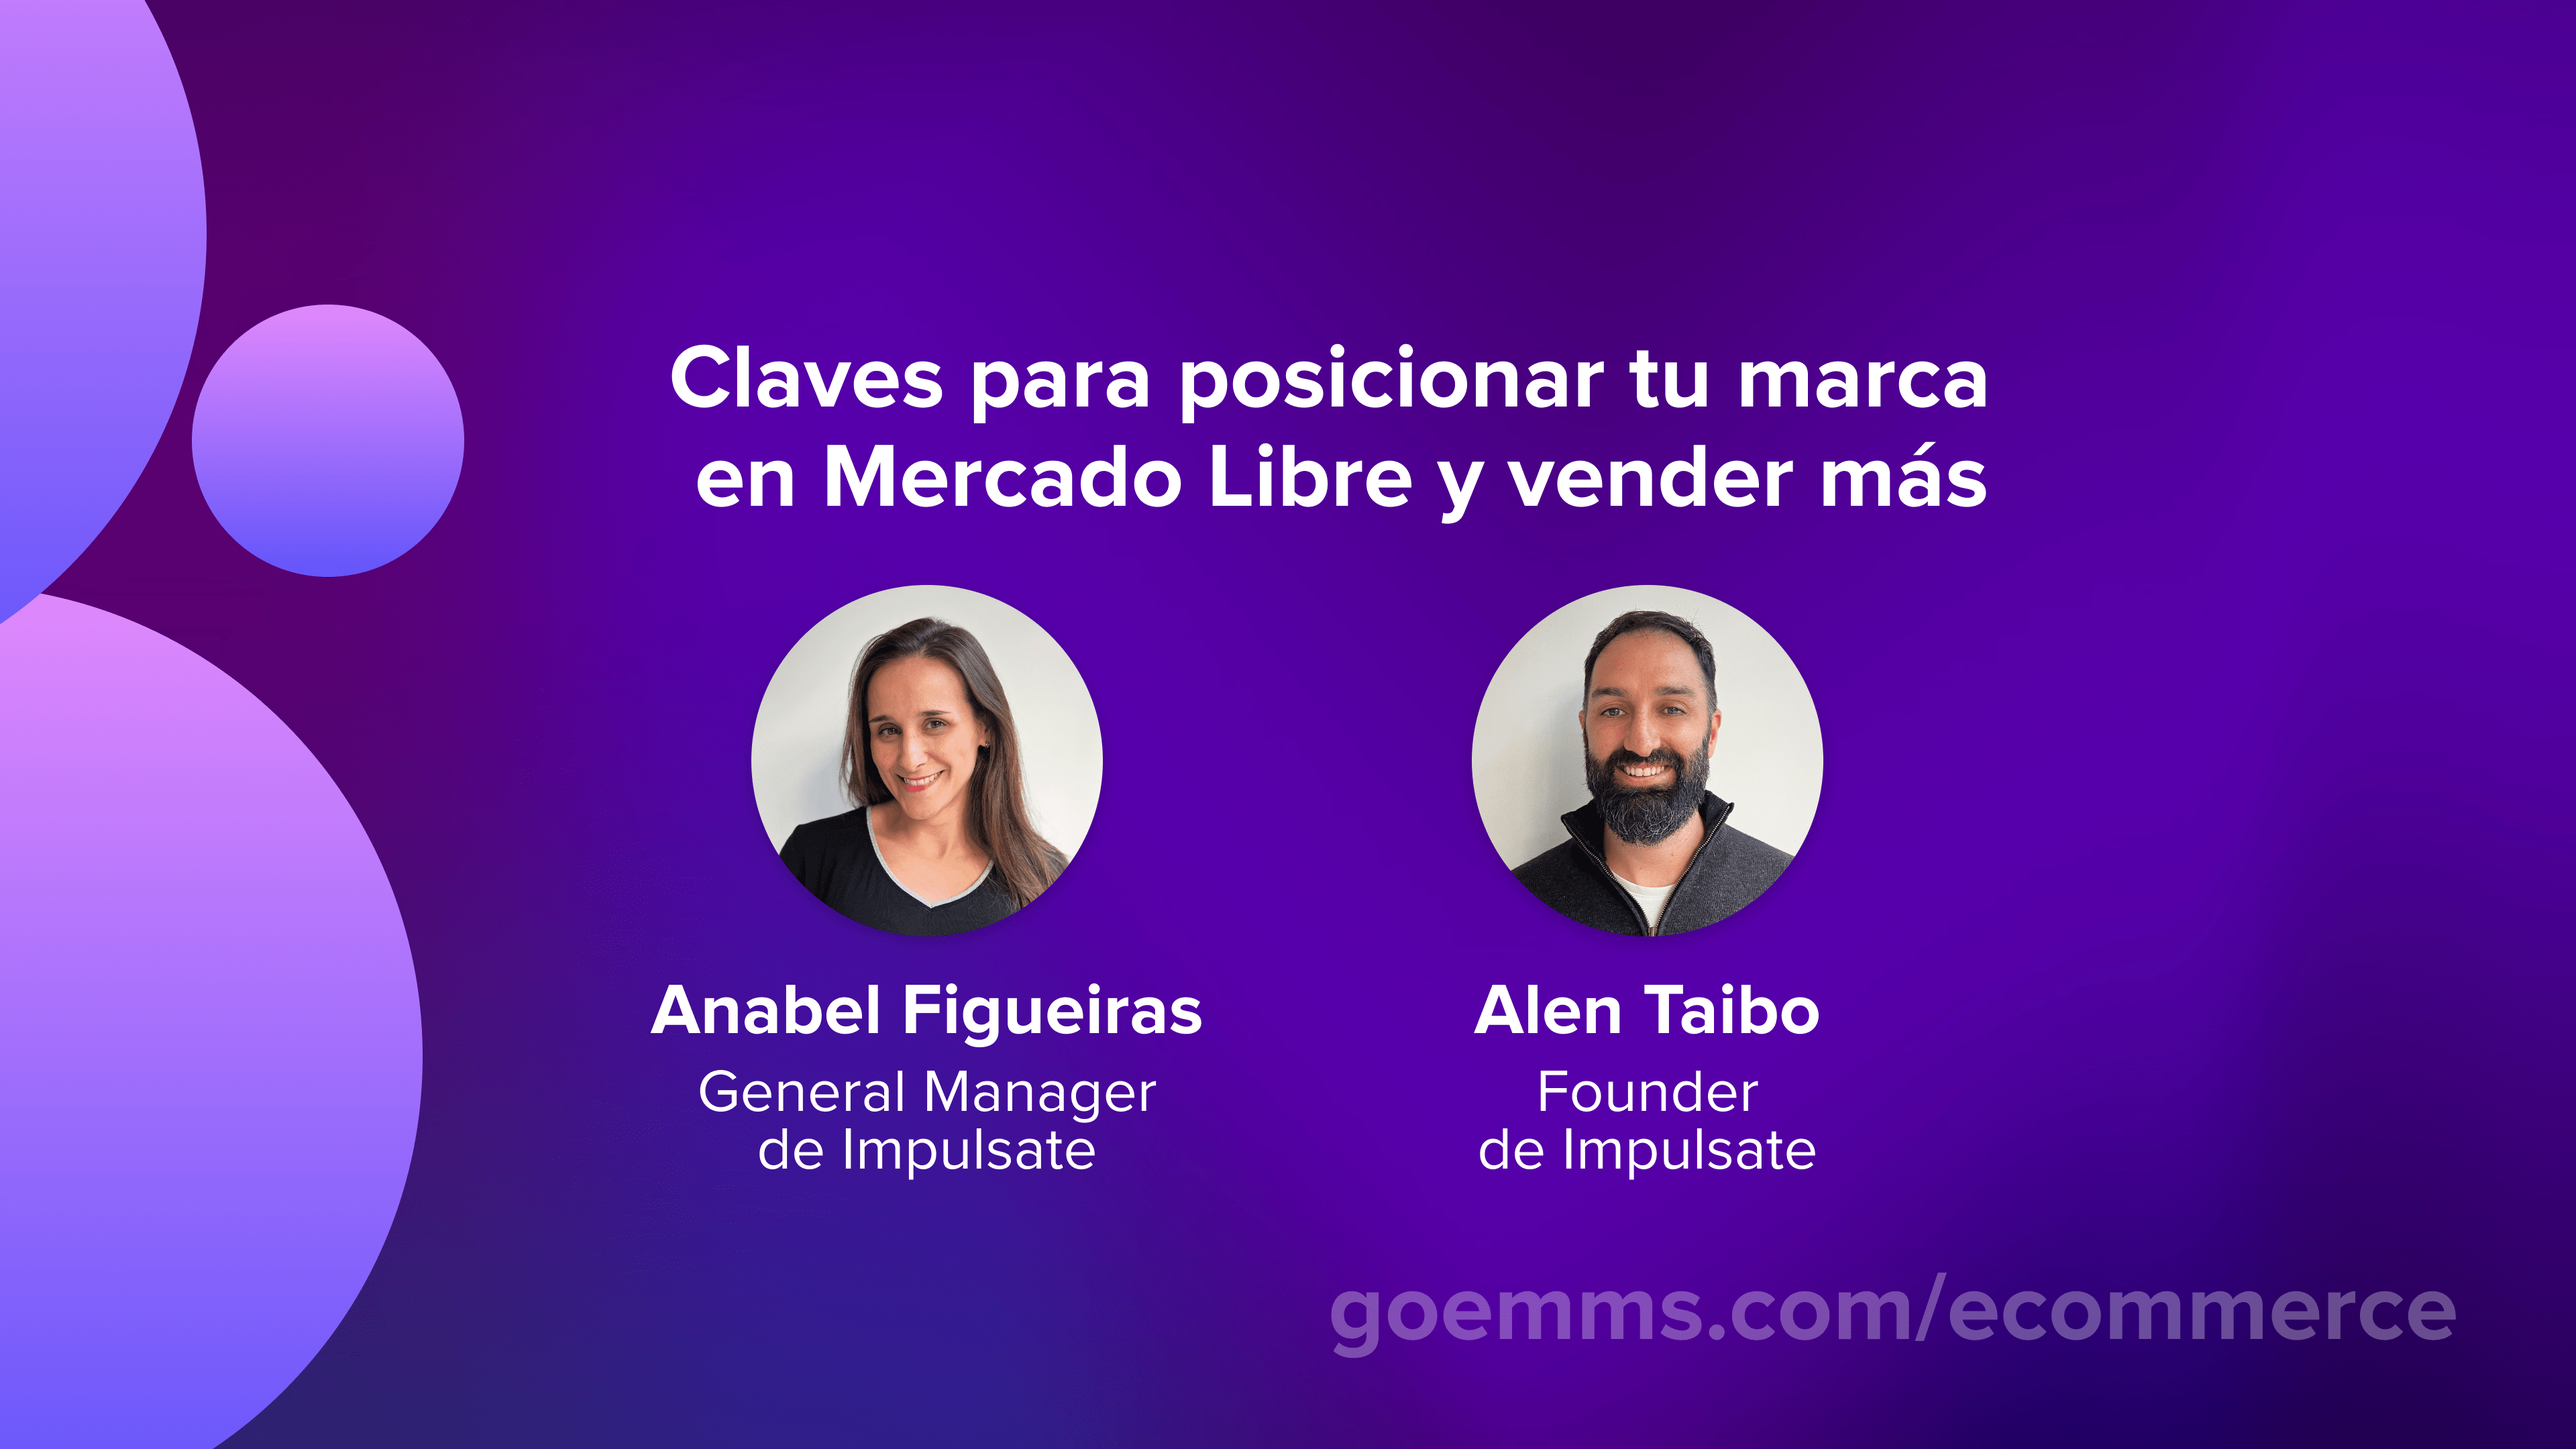
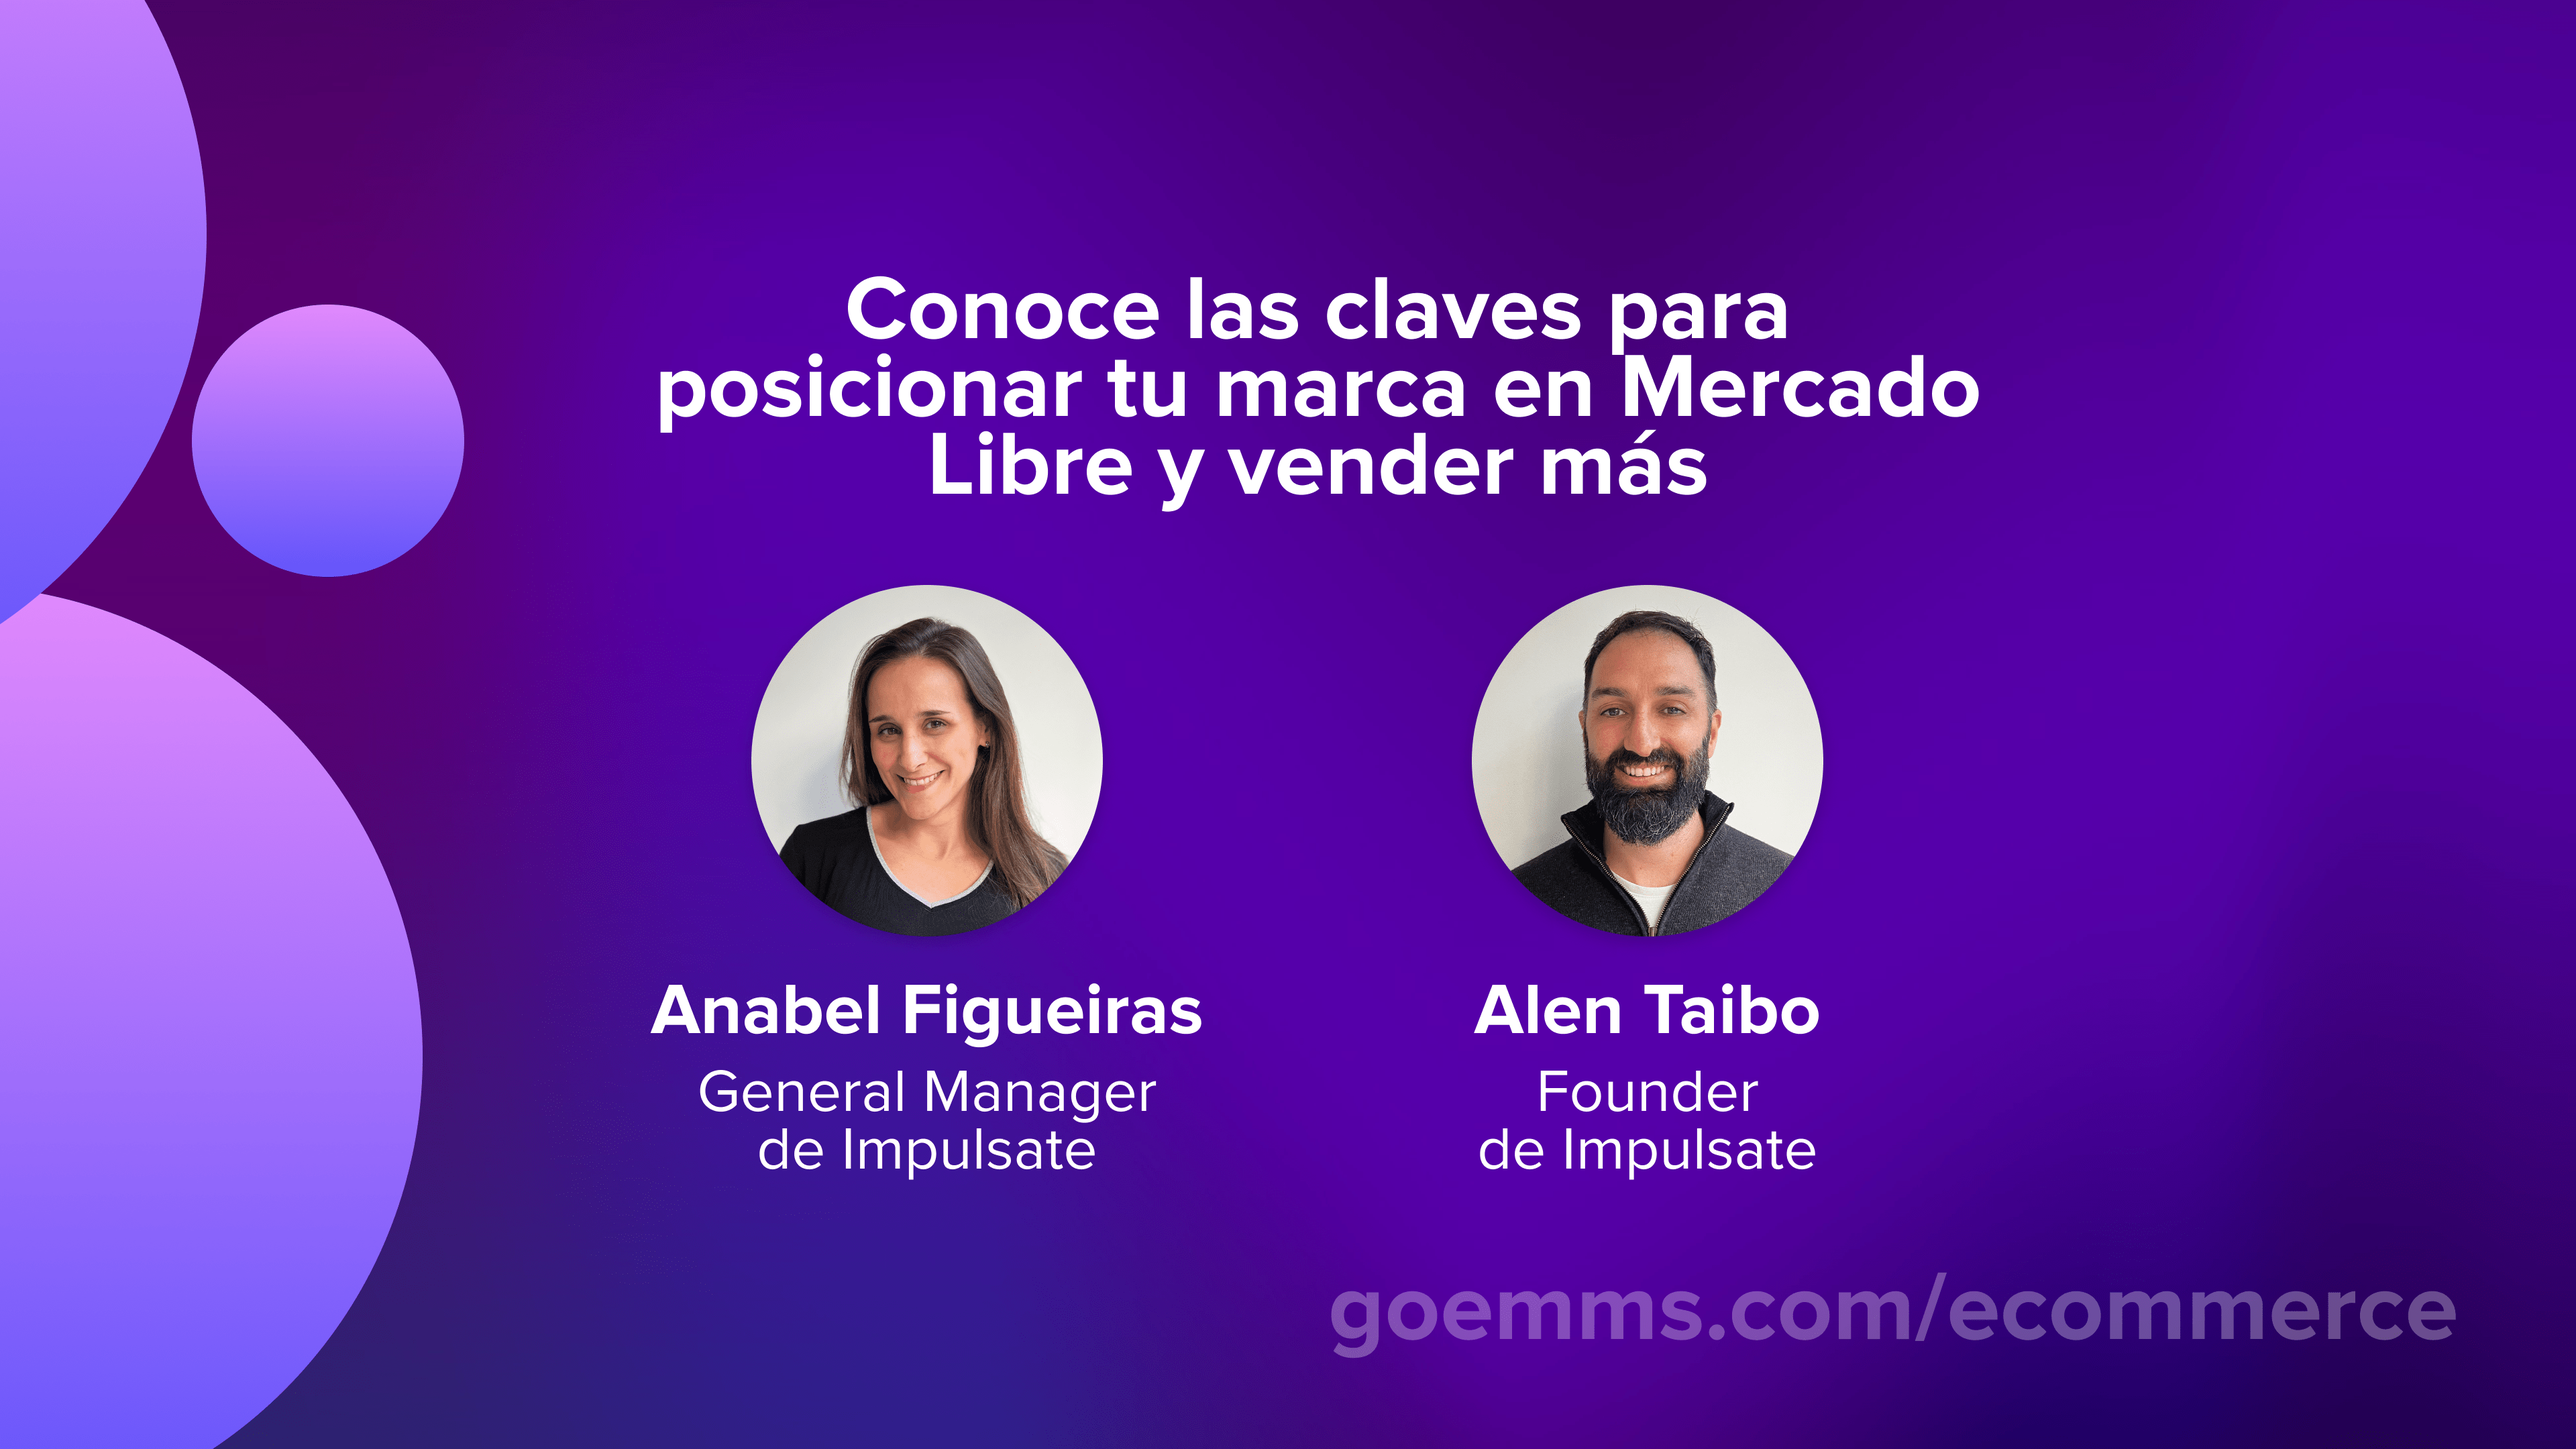
feat: add new capsule

Changed region(s): [[0.25, 0.1861, 0.7812, 0.3722], [0.4062, 0.9926, 0.4688, 1.0]]

diff --git a/components/sponsors/libraryResources/conferences.php b/components/sponsors/libraryResources/conferences.php
@@ -1,6 +1,13 @@
 <?php
 $videos = [
     [
+        "title" => "Inteligencia Artificial aplicada a E-commerce: todo lo que necesitas saber en 2025",
+        "img" => "/src/img/conferences25/portada-partnersacademy.png",
+        "link" => "https://youtu.be/q7c1NopFjko",
+        "logo" => "/src/img/conferences25/logos/partnersacademy-logo.png",
+        "altLogo" => "Partners Academy Logo"
+    ],
+    [
         "title" => "Internacionalización vía Marketplaces: de local a global, sin complicaciones",
         "img" => "/src/img/conferences25/portada-eude.png",
         "link" => "https://youtu.be/6F-Csb3nuIA",
@@ -8,7 +15,7 @@ $videos = [
         "altLogo" => "EUDE Logo"
     ],
     [
-        "title" => "Claves para posicionar tu marca en Mercado Libre y vender más",
+        "title" => "Conoce las claves para posicionar tu marca en Mercado Libre y vender más",
         "img" => "/src/img/conferences25/portada-impulsate.png",
         "link" => "https://youtu.be/O4RGSiO68jI",
         "logo" => "/src/img/conferences25/logos/impulsate-logo.png",
